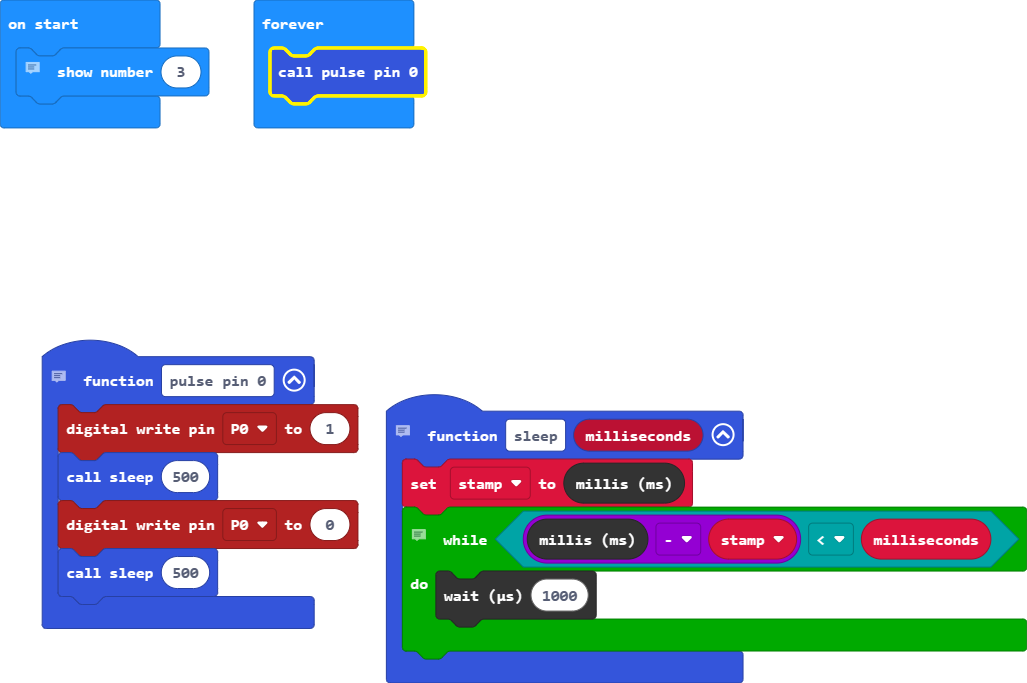
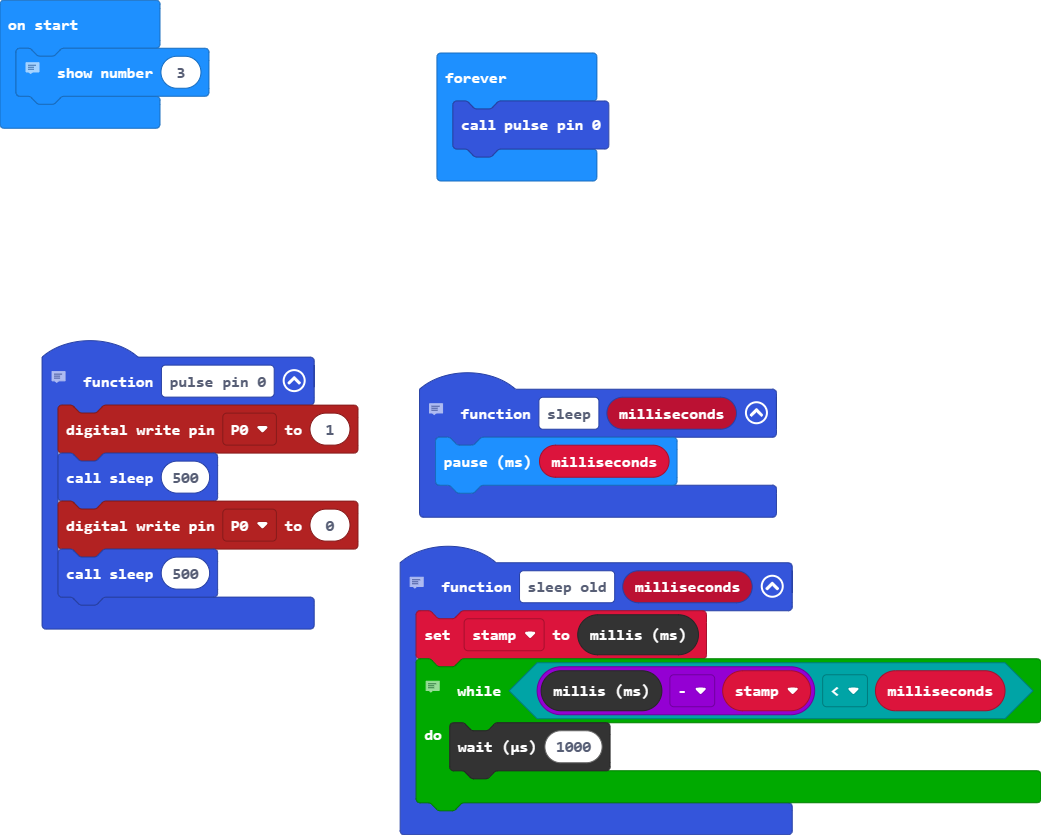
Update main.blocks, main.ts

diff --git a/main.ts b/main.ts
@@ -1,10 +1,6 @@
 // Sleep (do nothing) for number of milliseconds.
 function sleep (milliseconds: number) {
-    stamp = control.millis()
-    // current time - previous time = time passed
-    while (control.millis() - stamp < milliseconds) {
-        control.waitMicros(1000)
-    }
+    basic.pause(milliseconds)
 }
 // turns pin 0 on and off with a half second delay.
 function pulse_pin_0 () {
@@ -12,6 +8,14 @@ function pulse_pin_0 () {
     sleep(500)
     pins.digitalWritePin(DigitalPin.P0, 0)
     sleep(500)
+}
+// Sleep (do nothing) for number of milliseconds.
+function sleep_old (milliseconds: number) {
+    stamp = control.millis()
+    // current time - previous time = time passed
+    while (control.millis() - stamp < milliseconds) {
+        control.waitMicros(1000)
+    }
 }
 let stamp = 0
 // version number
